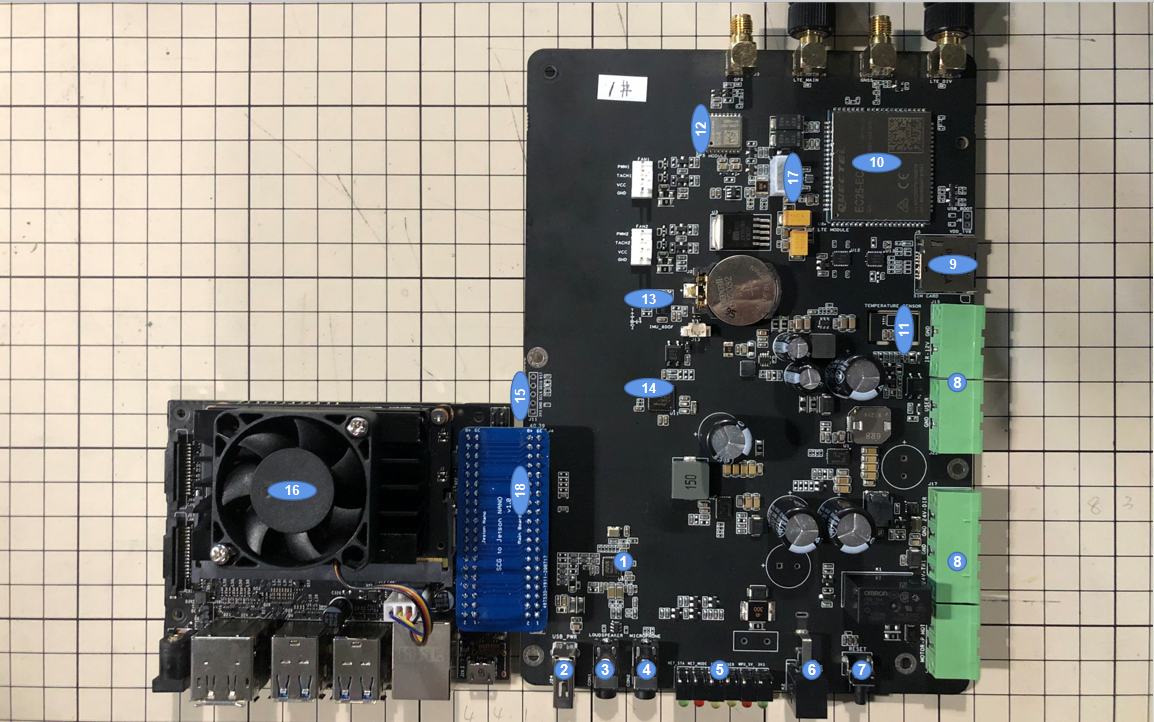
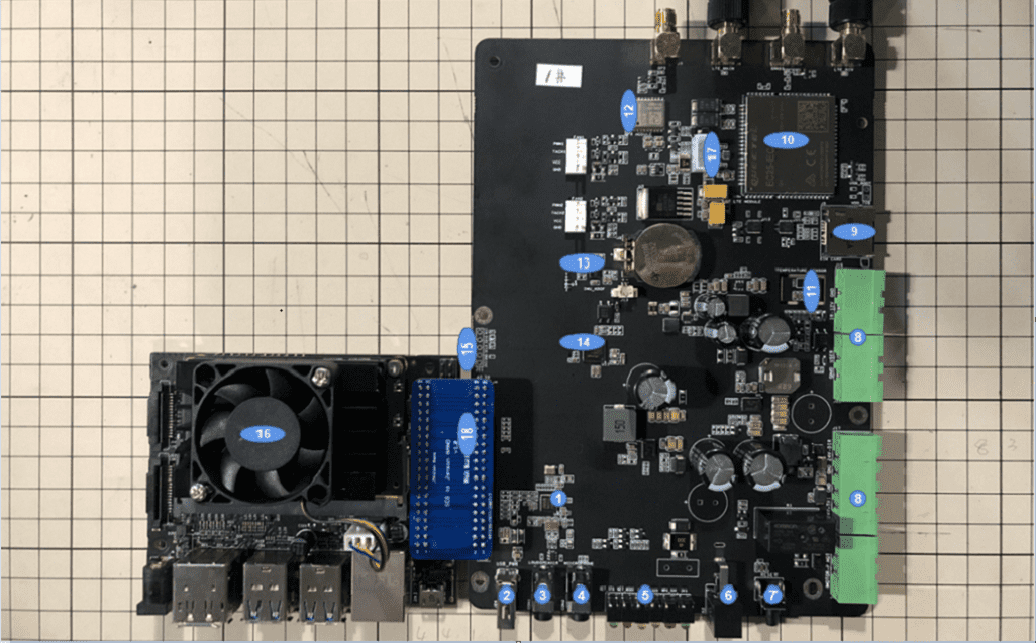
add:compatibility of raspberry pi4

Changed region(s): [[0.0, 0.0, 1.0, 1.0]]

diff --git a/README.md b/README.md
@@ -1,21 +1,20 @@
 # SCG Vehicle Device Software Guide
 
-**For Jetson Nano**
-
 **Seeed Technology**
 
 ## Specification for SCG Vehicle Device
 
 |Item|Values|
 |----|------|
-|Peripheral Interface| 1 x USB power for Speaker<br>1 x Mic interface<br>1 x Speaker interface<br>1 x Vibration Motor interface(MAX 2A)<br>1 x SIM card slot<br>1 x SWD inerface<br>1 x IR_RING interface(MAX3A)|
+|Peripheral Interface| 1 x USB power for Speaker<br>1 x Mic interface<br>1 x Speaker interface<br>1 x Vibration Motor interface(MAX 2A)<br>1 x SIM card slot<br>1 x SWD inerface<br>1 x IR_RING interface(MAX 3A)<br>1 x Power interface for 24_DIV and 24_TRI<br>3 x SMA Interface for LTE Antenna<br>1 x SMA Interface for GPS Antenna<br>1 x 40Pin for Jetson Nano or Raspberry Pi4|
 |On-board LED|1 x 3V3 LED<br>1 x MPU_5V LED<br>1 x USER LED<br>1 x 1PPS LED<br>1 x NET_MODE LED<br>1 x NET_STA LED|
 |Power|24V/2A|
-|Button|1 x USER button<br>1 x Reset button|
+|Button|1 x USER button<br>1 x Reset button<br>1 x Power Switch|
 |Operating temperature(C) | 0 ~ 50|
 |Humidity | < 80% |
 
 ## Hardware Overview
+
 
 ![Alt text](./img/hardware_view.png)
 
@@ -25,7 +24,7 @@
 - **4. 3.5MM JACK:** 3.5MM JACK for Mic.
 - **5. Led indicter:** Report the system information by LED.
 - **6. Power switch:** Power on / off SCG Vehicle Device.
-- **7. Reset button:** Reset SCG Vehicle Device.
+- **7. Reset button:** Reset SCG Vehicle Device and Jetson Nano.
 - **8. Extern Interface:**  Include 1 x Vibration Motor interface , 1 x 24V power interface , 1 x USER button interface , 1 x IR_RING interface.
 - **9. SIM Card slot:** insert SIM card.
 - **10. EC25-E:** LTE module.
@@ -36,37 +35,127 @@
 - **15. SWD interface:** Update the firmware to samd21 by use this interface.
 - **16. Fan:** Jetson Nano's FAN.
 - **17. Grove interface:** Connect LTE to Jetson Nano.
-- **18. 40PIN:** Connect SCG Vehicle Device to Jetson Nano.
+- **18. 40PIN:** Connect SCG Vehicle Device to Jetson Nano.Pay attention to the silk screen, Not reverse the connection. `1Pin to 1Pin`
+
+**For Jetson Nano**
+
+![Alt text](./img/40pin.png)
+
+**For Raspberry Pi4**
+
+![Alt text](./img/40pin-for_raspberry.png)
+
+## Extern Interface Pinout
+
+![Alt text](./img/pin_out.png)
 
 ## Preparatory Work
 
 **Materials Required**
 
 - SCG Vehicle Device
-- Jetson Nano with fan and SD card
+- Jetson Nano with fan and SD card or Raspberry Pi 4 and SD card
 - Internet network
 - Internet cable
-- PC (Windows10)
+- PC (Recommend Windows10)
 - [USB To Uart Adapter](https://www.seeedstudio.com/8USB-To-Uart-5V%26amp%3B3V3-p-1832.html) (optional)
-- 24V/2A DC interface adapter
+- 24V/2A DC interface adapter 
 - Speaker x 1
 - Mic x1
-- IR LED x 1
+- IR_RING x 1
+- Vibration Motor x 1
 - USB camera x 1
 - HDMI cable x 1
+- 40PIN x 1
+- Card reader x 1
 
-This software provide some shell commands and python script to demo how to drive devices on the SCG Vehicle Device. Most of these `commands` could input to the serial port (setting 115200,8bit,no-parity,no-flow -control) of Jetson Nano or to PUTTY window which connect to Jetson Nano through net/ssh connection.
+This software provide some shell commands and python script to demo how to drive devices on the SCG Vehicle Device. 
 
-![Alt text](./img/uart_connection.png)
+> Note: if you want to test the device you need to disassemble the box.
 
+### For Jetson Nano
+
+Most of these `commands` could input to the serial port (setting 115200,8bit,no-parity,no-flow -control) of Jetson Nano or to PUTTY window which connect to Jetson Nano through net/ssh connection.
+
+![Alt text](./img/uart_connection-Copy.png)
 
 After serial port/putty open, please login with `ubuntu:ubuntu`(User/password).
+
+### For Raspberry Pi4
+
+It is very necessary for us to control Raspberry Pi by using the software as belong: 
+- [VNC viewer](https://www.realvnc.com/en/connect/download/viewer/)
+- [IP Scanner](https://www.advanced-ip-scanner.com/)
+
+**wifi configure:**
+
+- Insert SD card that insert in Raspberry Pi4 to the computer by using the Card reader.
+- Create wpa_supplicant.conf and ssh.
+
+this is the content of wpa_supplicant.conf.
+
+```bash
+country=CN
+ctrl_interface=DIR=/var/run/wpa_supplicant GROUP=netdev
+update_config=1
+network={
+ssid="WIFI NAME"
+psk="PASSWORD"
+key_mgmt=WPA-PSK
+priority=1
+}
+```
+
+>Note: the WIFI has to be same with a local net of your computer.
+And ssh file is an empty file.
+
+- Put wpa_supplicant.conf and ssh file to boot folder.
+
+![](./img/boot_folder.png)
+
+- Insert SD card to Raspberry Pi and power on
+
+- Scan Raspberry Pi's IP by using IP Scanner
+
+![](./img/ipscaner.png)
+
+> Note:The scanning range depends on your local area network
+
+- Access terminal of Raspberry by using putty
+
+![](./img/putty.png)
+
+username:`pi`,password:`raspberry`.
+
+**VNC service:**
+
+- Typing command then open configure menu.
+
+```bash
+sudo raspi-config
+```
+
+- Select `5 Interfacing Options` then Select `P3 VNC`.
+
+![](./img/VNC_config.png)
+
+- Select `7 advanced Options` then Select `A5 Resolution` final Choose `DMT Mode 16`.
+
+![](./img/HDMI_CONFIG.png)
+
+- Select `Finish` and `Reboot`.
+
+![](./img/raspi-config_finish.png)
+
+- Open `VNC viewer` and typing IP to access the desktop of Raspberry.
+
+username:`pi`,password:`raspberry`.
 
 ## Devices Usage
 
 ### USB Camera
 
-Connect the USB Camera to any USB port of Jetson Nano.
+Connect the USB Camera to any USB port of Jetson Nano or Raspberry Pi4.
 
 ```bash
 # Install cheese application, apt require Internet connection.
@@ -74,16 +163,29 @@ sudo apt update
 sudo apt install cheese
 ```
 
->Note cheese command require GUI output, so it should enter into terminal window of  Ubuntu Desktop, not the serial port or putty window. To input this command, you should use a `USB keyboard & HDMI display`.
+**For Jetson Nano**
+
+>Note cheese command require GUI output, so it should enter into terminal window of Ubuntu Desktop, not the serial port or putty window. To input this command, you should use a `USB keyboard & HDMI display`.
 
 ```bash
 cheese
 #Then the video captured by camera will view on HDMI display.
 ```
 
+**For Raspberry Pi4**
+
+>Note cheese command require GUI output, so it should enter into terminal window of Raspberry Desktop, not the putty window. To input this command, you should use a `VNC viewer`.
+
+```bash
+cheese
+#Then the video captured by camera will view on VNC viewer.
+```
+
 ### Speaker & Micphone(WM8960)
 
-```bash 
+**For Jetson Nano**
+
+```bash
 arecord -D hw:1,0 -f S32_LE -r 48000 -c 2 | aplay -D hw:1,0 -f S32_LE \ 
 -r  48000 -c 2
 # The captured sound from jack MICPHONE will playback on jack LOADSPEAKER the same time.
@@ -99,12 +201,34 @@ arecord -D hw:2,0 -f S32_LE -r 48000 -c 2 | aplay -D hw:2,0 -f S32_LE \
 the codec detail as follow:
 |sample rate|channels|Sample formats|
 |:----:|:-----:|:-----:|
-|8k<br>11.025k<br>22.05k<br>32k<br>44.1k<br>48k<br>96k<br>192k|1<br>2|S8<br>S16_LE<br>S24_LE<br>S32_LE|
+|8k<br>11.025k<br>22.05k<br>32k<br>44.1k<br>48k|2|S16_LE<br>S24_LE<br>S32_LE|
 
 
-the more information you can view datasheets that included in the resources package.
+>Please try a few more times if it report sound card busy.
 
->Please try a few more times if it report sound card busy
+**For Raspberry Pi4**
+
+```bash
+arecord -D hw:2,0 -f S32_LE -r 48000 -c 2 | aplay -D hw:2,0 -f S32_LE \ 
+-r  48000 -c 2
+# The captured sound from jack MICPHONE will playback on jack LOADSPEAKER the same time.
+```
+
+If you insert a USB camera before Raspberry Pi boot. you must modify the HW option as follows.
+
+```bash
+arecord -D hw:3,0 -f S32_LE -r 48000 -c 2 | aplay -D hw:3,0 -f S32_LE \
+-r 48000 -c 2
+```
+
+the codec detail as follow:
+|sample rate|channels|Sample formats|
+|:----:|:-----:|:-----:|
+|8k<br>11.025k<br>22.05k<br>32k<br>44.1k<br>48k|2|S16_LE<br>S24_LE<br>S32_LE|
+
+
+>Please try a few more times if it report sound card busy.
+
 
 ### Vibration Motor
 
@@ -138,7 +262,6 @@ cd $HOME/git/LSM6DS3; python3 examples/example_poll.py
 ```
 
 the Sensor the min scale is ±2 g.
-the more information you can view datasheets that included in the resources package.
 
 ### GPS(L70-R)
 
@@ -146,13 +269,21 @@ Download script from:
 
 https://github.com/turmary/vehicle-examples/blob/master/nema2_reader.py
 
+**For Raspberry Pi4**
+
+```bash
+#sudo pip3 install pynmea2 pyserial
+sudo python3 nema2_reader.py /dev/ttyAMA0
+#Display NEMA data got from the GPS module.
+```
+
+**For Jetson Nano**
+
 ```bash
 #sudo pip3 install pynmea2 pyserial
 sudo python3 nema2_reader.py /dev/ttyTHS1
 #Display NEMA data got from the GPS module.
 ```
-
-the more information you can view datasheets that included in the resources package.
 
 ### LTE(EC25-E)
 
@@ -182,6 +313,7 @@ https://github.com/turmary/vehicle-examples/blob/master/quectel-onoff.py
 # sudo apt install ppp
 # Power on the LTE module
 sudo python3 quectel-onoff.py
+#The script will need some time to power on or power off.
 #The USER LED will light when the LTE power successfully.
 ```
 
@@ -190,12 +322,12 @@ Internet test
 ```bash
 # Dial the Cell Network, run in background
 pppd call quectel &
+# if failed, please try with sudo prefix
+# sudo pppd call quectel &
 # Test the network
 ping -I ppp0 www.china.com
 #Should receive response bytes from the site.
 ```
-
-the more information you can view datasheets that included in the resources package.
 
 ### IR_RING
 
@@ -204,7 +336,7 @@ Download script from:
 https://github.com/turmary/vehicle-examples/blob/master/IR_Control.py
 
 ```bash
-#sudo pip3 install smbus
+#sudo Pip3 install smbus
 #If you want to power on the IR_RING you can use cmd as follow
 sudo python3 IR_Control.py on
 #The IR_RING will bright in a dark environment.
@@ -212,7 +344,7 @@ sudo python3 IR_Control.py on
 sudo python3 IR_Control.py off
 ```
 
-### Fan
+### Fan (Only exist in Jetson Nano)
 
 Download script from:
 
